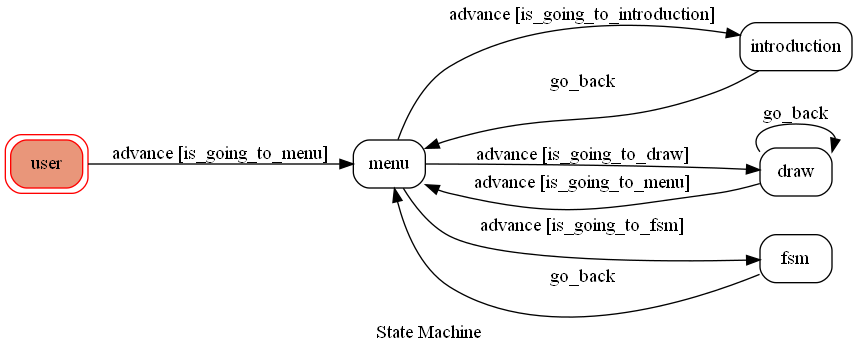
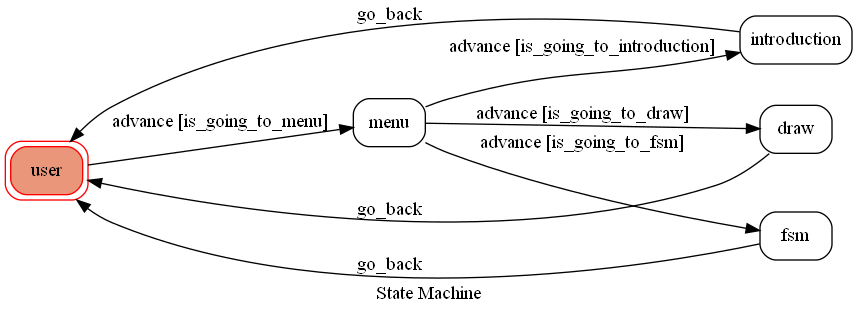
state update

diff --git a/app.py b/app.py
@@ -32,14 +32,14 @@ machine = TocMachine(
         },
         {
             "trigger": "go_back",
-            "source":["introduction","fsm"],
-            "dest": "menu"
+            "source":["introduction","fsm","draw"],
+            "dest": "user"
         },
-        {
-            "trigger": "go_back",
-            "source":"draw",
-            "dest": "draw"
-        },
+        # {
+        #     "trigger": "go_back",
+        #     "source":"draw",
+        #     "dest": "draw"
+        # },
         {
             "trigger": "advance",
             "source":"menu",
@@ -52,12 +52,12 @@ machine = TocMachine(
             "dest": "draw",
             "conditions": "is_going_to_draw",
         },
-        {
-            "trigger": "advance",
-            "source":"draw",
-            "dest": "menu",
-            "conditions": "is_going_to_menu",
-        },
+        # {
+        #     "trigger": "advance",
+        #     "source":"draw",
+        #     "dest": "menu",
+        #     "conditions": "is_going_to_menu",
+        # },
     ],
     initial="user",
     auto_transitions=False,

diff --git a/fsm.py b/fsm.py
@@ -21,26 +21,17 @@ class TocMachine(GraphMachine):
         text = event.message.text
         return text.lower() == "draw" or text.lower() == "抽"
     def on_enter_menu(self, event):
-        print("I'm entering state1")
         reply_token = event.reply_token
         send_text_message(reply_token, "menu")
     def on_enter_fsm(self, event):
-        print("I'm entering state1")
         reply_token = event.reply_token
         send_image_url(reply_token,"https://github.com/dennis23314063/test/blob/master/fsm.png?raw=true")
         self.go_back()
     def on_enter_draw(self, event):
-        print("I'm entering state1")
         reply_token = event.reply_token
         send_image_url(reply_token,get_url())
         self.go_back()
-    # def on_exit_menu(self,event):
-    #     print("Leaving state1")
     def on_enter_introduction(self, event):
-        print("I'm entering state2")
         reply_token = event.reply_token
         send_text_message(reply_token, "introduction")
         self.go_back()
-
-    # def on_exit_introduction(self,event):
-    #     print("Leaving state2")
